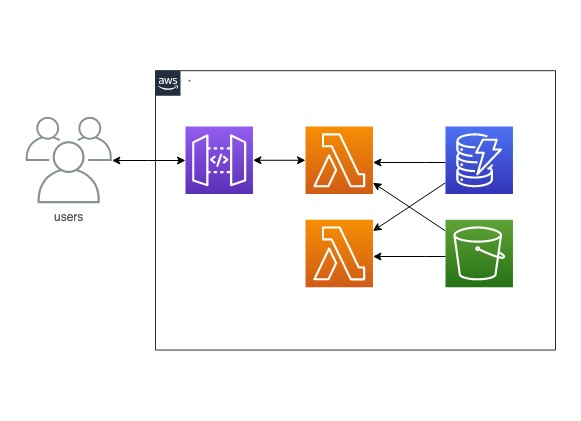
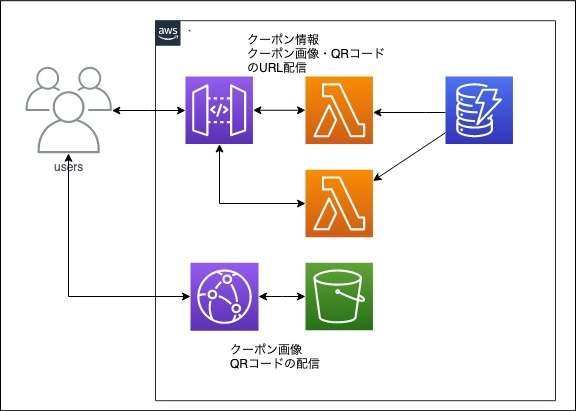
fix README.md

diff --git a/README.md b/README.md
@@ -1,6 +1,7 @@
 # coupon
 ## 概要
 ![image](./image/Coupon.jpg)
+
 小売店向けのクーポン配信用アプリのWebAPIです。
 
 HTTP/GETでクーポンの以下の情報が取得できます。
@@ -18,14 +19,20 @@ HTTP/GETでクーポンの以下の情報が取得できます。
 ## タスク
 https://trello.com/b/pW2NSlUH/coupon
 
+## 設計
 
-## Dynamo
+- S3に画像ファイルを格納し、CloudFrontで配信します。
+- DynamoDBにクーポンの各種情報を格納し、画像ファイルのホスティングURLも格納します。
+- RESTAPIは一覧取得、指定タイトルでの検索、詳細出力です。
+- APIでは画像のホスティングURLを返却します。
 
-|Key|Value|
-|---|---|
-|0000001|{title:'hogehoge',description:'fugafuga',start:'2019-01-01T00:00:00',end:'2019-01-01T23:59:59'}|
+### Dynamo
 
-## S3
+|Hashkey|GSI|Value|
+|---|---|---|---|
+|id: '0000001'|title: 'hogehoge'|description:'fugafuga', thumnail_url: 'https://**/image.png',qrcode_url: 'https://**/qrcode.jpg'|
+
+### S3
 
 ```
 root
@@ -33,6 +40,30 @@ root
   |_0000001_qrcode.jpg
 ```
 
-## APIGateway
+### APIGateway
 
 [Swagger](./swagger.yaml)参照
+
+#### MEMO
+
+- 構成管理はAWS-CDKを利用しました。
+- 理由は単純に使ってみたかったから
+- LambdaつくるだけならSAMやServerlessFrameworkのほうがハマリポイントは少なかった気がします。
+- リソース作成については、S3+CloudFrontのSPA構成が簡単にできて感動しました。
+- CDKでACMの証明書取得でuseast-1の取得がうまくできず、結局手動でやりました。
+- まともにTypeScript書いたのは初めてでしたが、CDK+TypeScriptはCFnとくらべると書きやすかったです。
+- ハンドラのテスト時、DynamoをMockにしてテストしてましたが、Dynamoをほぼそのまま返していたので
+Validationのテストくらいにしかなってないような気がしてます。
+- 結局クエリ系のテストは手動でやりました。
+
+##### 懸念
+- 課題の例文に利用一回限り〜とあったので、これも仕様なのかものすごい悩みましたが、
+考えた結果配信側ではどうしようもないと結論づけて画像はホスティングしました。
+- 画像ファイルのサイズ制限も考え、CloudFrontでの配信にしましたが、QRコードの画像程度なら1MB制限に引っかからなさそうなので
+base64でAPI経由の配信を強制してもよかったかもしれません。
+- 署名付きURL発行も考えましたが、結局固定QRCodeなので意味がないのではと考えてやめました。
+- 店舗IDや有効期限による検索も考えましたが、あまり作業時間がとれず断念しました。
+
+##### 聞きたいこと
+- Dynamoのページングってわりと一般的にやるものなんでしょうか？
+いままでページングしなきゃいけないほど、巨大なリソースを扱うことがなかったので
